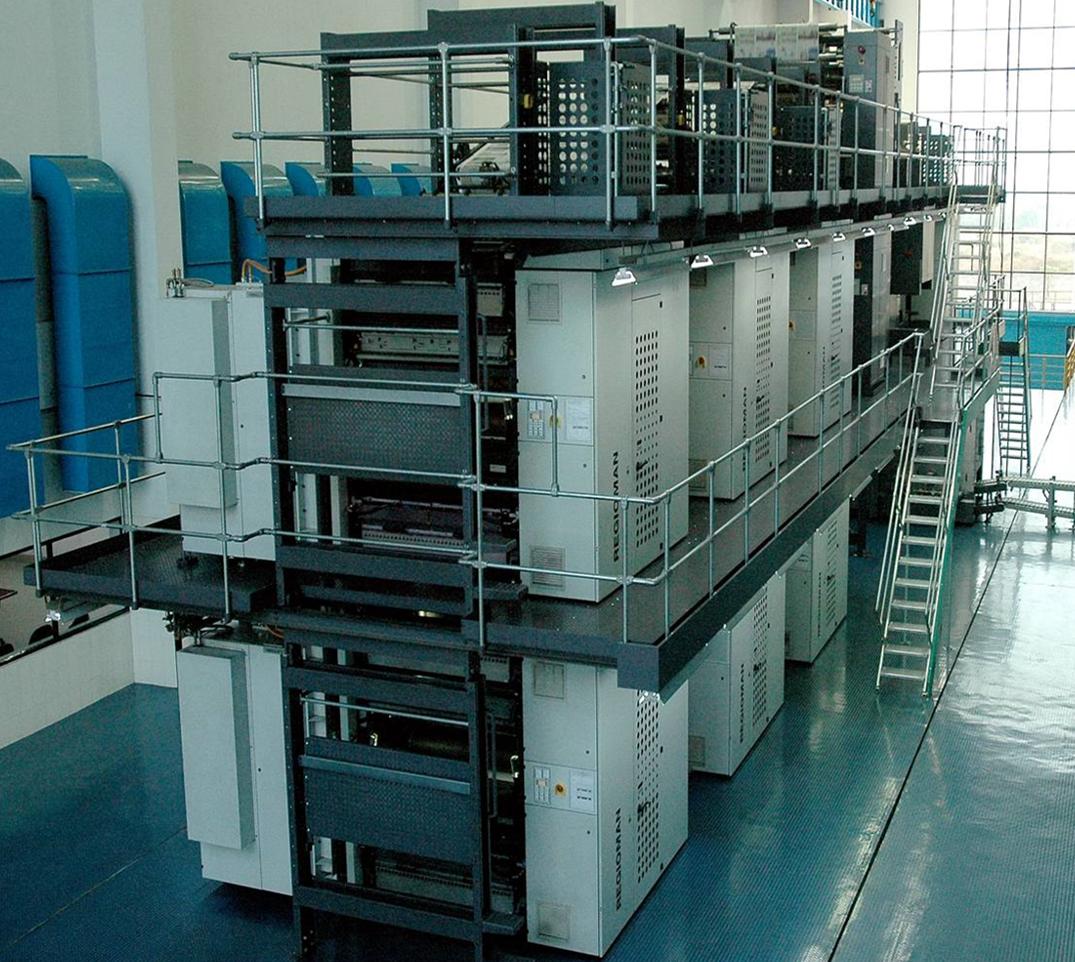
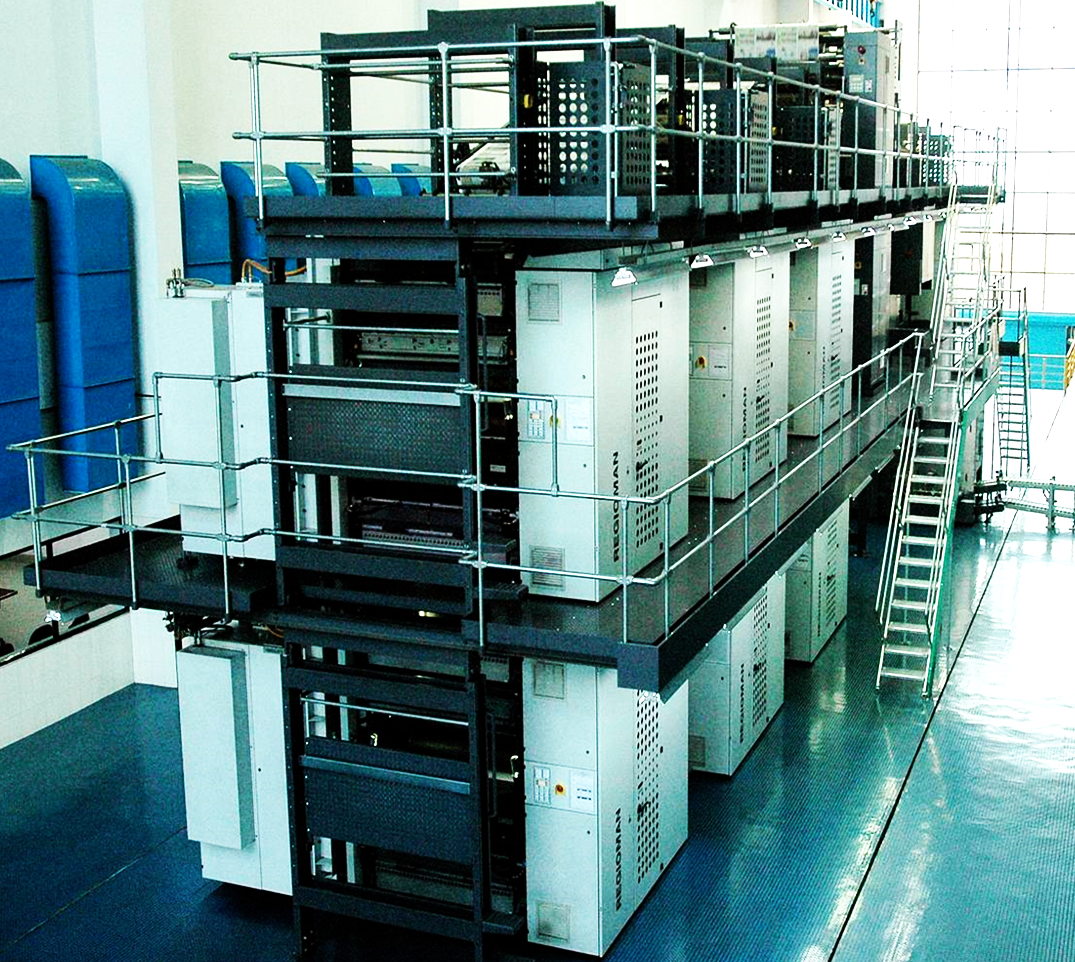
New landing page refinements

diff --git a/frontend/src/components/LandingPage.jsx b/frontend/src/components/LandingPage.jsx
@@ -18,6 +18,7 @@ import punImg from '../../images/KAN/PUN.png';
 import sbdImg from '../../images/KAN/SBD.png';
 import tvmImg from '../../images/KAN/TVM.png';
 import machineImg from '../../images/KAN/machine_img.png';
+import logoImg from '../../images/KAN/logo.png';
 
 const DESIGN_PLANTS = [
   { key: "Vejalpur", label: "AHMEDABAD", img: ahmImg },
@@ -40,7 +41,7 @@ export default function LandingPage({ onSelectPlant }) {
   return (
     <div
       className="landing-page-container flex-1 flex-col items-center justify-start py-12 px-6 sm:px-12 lg:px-20 relative"
-      style={{ backgroundColor: '#020813' }}
+      style={{ backgroundColor: '#1f1e45' }}
     >
       {/* Background machine image — absolutely positioned, native size capped, 15% fade on left & bottom */}
       <img
@@ -52,22 +53,12 @@ export default function LandingPage({ onSelectPlant }) {
       {/* Top Header Section */}
       <div className="max-w-[1360px] w-full mt-4 lg:mt-8">
         {/* PACE Logo */}
-        <div className="flex items-center select-none">
-          <span className="flex items-center font-black tracking-normal text-white text-6xl sm:text-7xl lg:text-[85px] leading-none">
-            P
-            <svg
-              className="text-[#00E5FF] drop-shadow-[0_0_14px_rgba(0,229,255,0.9)] fill-current shrink-0 self-center"
-              viewBox="0 0 80 100"
-              style={{ display: 'inline-block', height: '0.92em', width: '0.7em', transform: 'translateY(-1%)', margin: '0 0.04em' }}
-            >
-              {/* Upward triangle representing letter A */}
-              <polygon points="40,4 78,92 2,92" />
-              {/* Inner cutout to mimic the crossbar of A */}
-              <polygon points="40,4 78,92 2,92" fill="transparent" />
-              <polygon points="24,70 56,70 62,84 18,84" fill="#020813" />
-            </svg>
-            CE
-          </span>
+        <div className="flex items-center select-none pace-logo-wrap">
+          <img 
+            src={logoImg} 
+            alt="PACE Logo" 
+            className="h-[60px] sm:h-[75px] lg:h-[85px] w-auto object-contain"
+          />
         </div>
 
         {/* Subtitle */}
@@ -79,13 +70,13 @@ export default function LandingPage({ onSelectPlant }) {
         <div className="header-divider" />
 
         {/* Tagline */}
-        <p className="text-[#38BDF8] font-bold text-sm sm:text-base tracking-wider uppercase pl-1 mt-3">
-          AI-Powered Platform for Capacity Utilisation Analysis
+        <p className="text-[#38BDF8] font-normal text-sm sm:text-base tracking-wider pl-1 mt-2">
+          Ai-Powered Platform for Capacity Utilisation Analysis
         </p>
       </div>
 
       {/* Middle Section: 3 Info Cards */}
-      <div className="grid grid-cols-1 md:grid-cols-3 gap-6 max-w-[1360px] w-full" style={{ marginTop: 'clamp(100px, 13vh, 180px)', marginBottom: 'clamp(12px, 2vh, 30px)' }}>
+      <div className="grid grid-cols-1 md:grid-cols-3 gap-6 max-w-[1360px] w-full" style={{ marginTop: 'clamp(70px, 18vh, 250px)', marginBottom: 'clamp(12px, 2vh, 30px)' }}>
         {/* Card 1 */}
         <div className="mockup-card mockup-card-blue">
           <div className="card-top-sec">
@@ -145,7 +136,7 @@ export default function LandingPage({ onSelectPlant }) {
 
         {/* Horizontal Row of Plants */}
         <div className="plants-scrollbar overflow-x-auto w-full pb-2">
-          <div className="plants-row-container flex items-end justify-between min-w-[1240px] px-2 gap-4">
+          <div className="plants-row-container flex items-end justify-between w-full px-2 gap-4">
             {DESIGN_PLANTS.map((plant) => (
               <button
                 key={plant.key}

diff --git a/frontend/src/components/LandingPage.css b/frontend/src/components/LandingPage.css
@@ -2,7 +2,7 @@
 
 .landing-page-container {
     min-height: 100vh;
-    background-color: #020813;
+    background-color: #1f1e45;
     display: flex;
     flex-direction: column;
     color: #ffffff;
@@ -20,17 +20,19 @@
     width: min(60vw, 1075px);
     max-width: 60vw;
     height: auto;
+    max-height: 100%;
+    max-height: 100vh;
     /* Preserve aspect ratio — no stretch */
     object-fit: contain;
     object-position: top right;
-    /* Horizontal: fully transparent at 2%, fully opaque at 20% of image width  */
+    /* Horizontal: fully transparent at 8%, fully opaque at 23% of image width  */
     /* Vertical:   fully opaque until 70%, fully transparent at 90% of image height */
     -webkit-mask-image:
-        linear-gradient(to right,  transparent 2%, black 20%),
+        linear-gradient(to right,  transparent 8%, black 23%),
         linear-gradient(to bottom, black 70%, transparent 90%);
     -webkit-mask-composite: destination-in;
     mask-image:
-        linear-gradient(to right,  transparent 2%, black 20%),
+        linear-gradient(to right,  transparent 8%, black 23%),
         linear-gradient(to bottom, black 70%, transparent 90%);
     mask-composite: intersect;
     pointer-events: none;
@@ -52,10 +54,10 @@
             rgba(56, 189, 248, 0.9) 60%,
             rgba(56, 189, 248, 0.1) 100%);
     box-shadow: 0 0 10px rgba(56, 189, 248, 0.4);
-    width: 55%;
-    max-width: 700px;
-    margin-top: 1.25rem;
-    margin-bottom: 1.25rem;
+    width: 38%;
+    max-width: 500px;
+    margin-top: 0.55rem;
+    margin-bottom: 0.55rem;
 }
 
 /* Custom Card Styles matching the snapshot */
@@ -210,9 +212,7 @@
 
 @media (min-width: 1200px) {
     .landing-page-container {
-        height: 100vh;
-        max-height: 100vh;
-        overflow: hidden;
+        min-height: 100vh;
         padding-top: 0.75rem;
         padding-bottom: 0.5rem;
         padding-left: 2rem !important;
@@ -240,15 +240,13 @@
     .plants-row-container {
         min-width: 0 !important;
         width: 100% !important;
-        gap: 0.25rem !important;
+        gap: clamp(4px, 0.4vw, 8px) !important;
     }
 
-    /* Scale monuments for exact fit on screen widths between 1200px and 1439px */
+    /* Scale monuments fluidly based on viewport width to fit 14 items perfectly */
     .plant-image-wrapper {
-        height: 4.5rem !important;
-        /* 72px */
-        width: 4.5rem !important;
-        /* 72px */
+        height: clamp(58px, 4.6vw, 82px) !important;
+        width: clamp(58px, 4.6vw, 82px) !important;
     }
 
     .plant-item-btn {
@@ -281,16 +279,9 @@
         height: 140px !important;
     }
 
-    .plants-row-container {
-        gap: 0.5rem !important;
-    }
 
-    .plant-image-wrapper {
-        height: 6rem !important;
-        /* 96px */
-        width: 6rem !important;
-        /* 96px */
-    }
+
+
 
     .plant-item-btn {
         padding-top: 0.5rem !important;

diff --git a/frontend/index.html b/frontend/index.html
@@ -4,6 +4,9 @@
     <meta charset="UTF-8" />
     <meta name="viewport" content="width=device-width, initial-scale=1.0" />
     <title>Plant Capacity Utilization</title>
+    <link rel="preconnect" href="https://fonts.googleapis.com" />
+    <link rel="preconnect" href="https://fonts.gstatic.com" crossorigin />
+    <link href="https://fonts.googleapis.com/css2?family=Barlow:wght@800;900&display=swap" rel="stylesheet" />
   </head>
   <body>
     <div id="root"></div>
